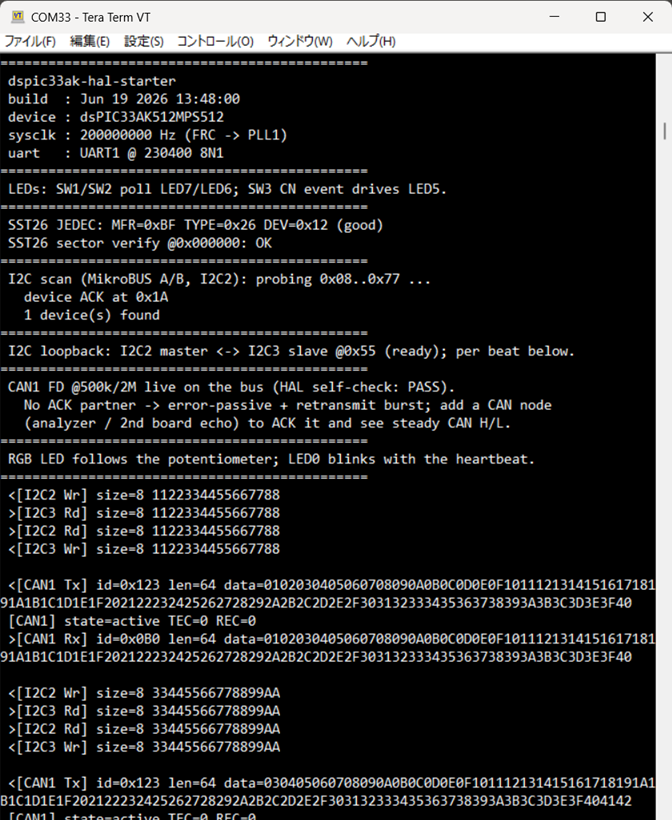
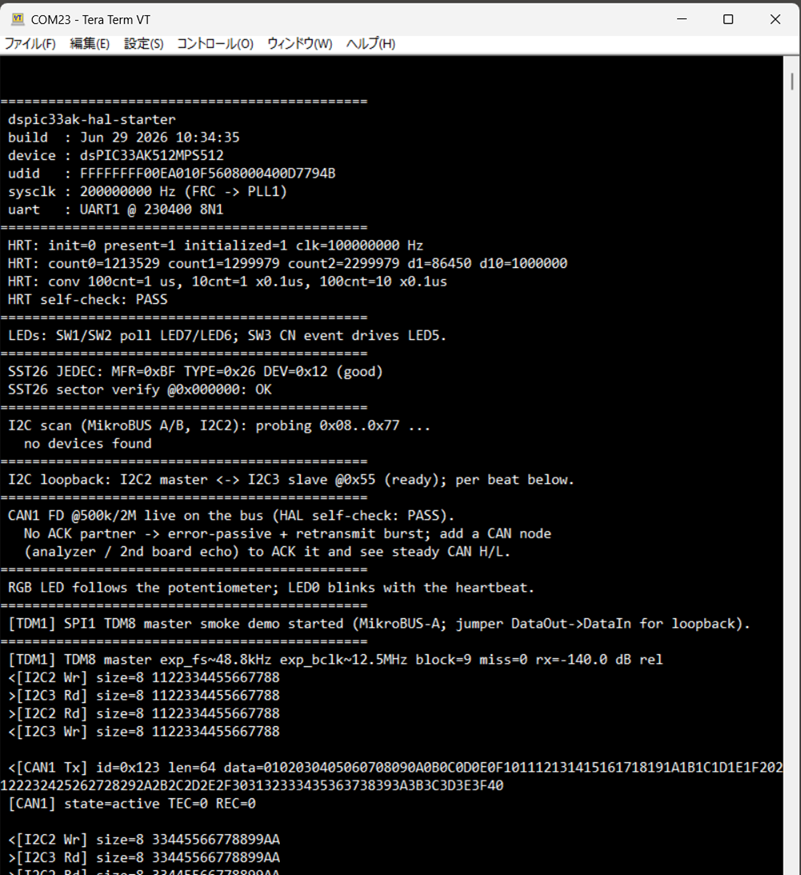
docs: update serial-console screenshot and README to match current firmware
New screenshot shows: UDID in boot banner, TDM8 smoke demo startup + status
line, I2C loopback, CAN1 state=active (ACK partner present).
README expected-output and caption updated to match.

Changed region(s): [[0.0, 0.0, 1.0, 1.0]]

diff --git a/README.md b/README.md
@@ -8,15 +8,14 @@ high-resolution counter self-check, UART
 `printf()`, SPI flash verification, I2C scan, and then an alternating
 I2C-loopback / CAN FD bus demo with RGB LED control and heartbeat output.
 
-<img src="docs/images/serial-console.png" alt="Serial console from dspic33ak-hal-starter: a two-board CAN FD session with the I2C loopback and CAN FD frames interleaving" width="900">
+<img src="docs/images/serial-console.png" alt="Serial console from dspic33ak-hal-starter: full startup sequence including HRT self-check, SST26, I2C scan, TDM smoke demo, I2C loopback, and CAN FD with ACK partner" width="900">
 
-Captured from a live **two-board** session using Tera Term. This board (A) runs
-the starter; a second board (B) flashed in echo config is wired to it over CAN
-(J21 <-> J21, CANH/CANL/GND + termination). So the CAN1 frames are ACKed and
-echoed back — the log shows the `<[CAN1 Tx] id=0x123` transmits and the
-`>[CAN1 Rx] id=0x0B0` echoes from board B, interleaved with the I2C loopback. On
-a single board with no CAN partner, the CAN1 controller instead goes
-`error-passive` and retransmits (a burst you can see on a scope/CAN analyzer).
+Captured from a live session using Tera Term. The output shows the complete
+startup sequence: boot banner (including UDID), HRT self-check, SST26 verify,
+I2C scan, I2C loopback, CAN1 FD with an ACK partner (`state=active`), and the
+TDM8 smoke demo running on MikroBUS-A — all running together. On a single board
+with no CAN partner, the CAN1 controller instead goes `error-passive` and
+retransmits (a burst you can see on a scope/CAN analyzer).
 
 ## Required hardware
 
@@ -224,6 +223,7 @@ connected; pass `-Serial <PKOB4_SERIAL>` when multiple boards are attached.
  dspic33ak-hal-starter
  build  : ...
  device : dsPIC33AK512MPS512
+ udid   : ...
  sysclk : 200000000 Hz (FRC -> PLL1)
  uart   : UART1 @ 230400 8N1
 ==============================================
@@ -238,8 +238,7 @@ connected; pass `-Serial <PKOB4_SERIAL>` when multiple boards are attached.
  SST26 sector verify @0x000000: OK
 ==============================================
  I2C scan (MikroBUS A/B, I2C2): probing 0x08..0x77 ...
-   device ACK at 0x1A
-   1 device(s) found
+   no devices found
 ==============================================
  I2C loopback: I2C2 master <-> I2C3 slave @0x55 (ready); per beat below.
 ==============================================
@@ -249,28 +248,30 @@ connected; pass `-Serial <PKOB4_SERIAL>` when multiple boards are attached.
 ==============================================
  RGB LED follows the potentiometer; LED0 blinks with the heartbeat.
 ==============================================
- <[CAN1 Tx] id=0x123 len=64 data=05060708...4344
- [CAN1] state=error-passive TEC=128 REC=0
+ [TDM1] SPI1 TDM8 master smoke demo started (MikroBUS-A; jumper DataOut->DataIn for loopback).
 
+ [TDM1] TDM8 master exp_fs~48.8kHz exp_bclk~12.5MHz block=... miss=0 rx=... dB rel
  <[I2C2 Wr] size=8 1122334455667788
  >[I2C3 Rd] size=8 1122334455667788
  >[I2C2 Rd] size=8 1122334455667788
  <[I2C3 Wr] size=8 1122334455667788
 
- <[CAN1 Tx] transmit queue full / timeout
- [CAN1] state=error-passive TEC=128 REC=0
+ <[CAN1 Tx] id=0x123 len=64 data=05060708...4344
+ [CAN1] state=active TEC=0 REC=0
+
+ <[I2C2 Wr] size=8 ...
  ...
 ```
 
 The two peripheral demos alternate once per second (CAN FD on one beat, the I2C
-master/slave round trip on the next), separated by a blank line.
+master/slave round trip on the next), separated by a blank line. The TDM smoke
+demo runs in the background and prints one status line every ~5 s.
 
-(The I2C addresses found depend on what is attached. In the screenshot above,
-the scan finds a device at `0x1A`; the I2C loopback slave itself runs at `0x55`.
-Turning the potentiometer sweeps the RGB LED green -> blue -> white -> red. With
-no CAN ACK partner the CAN1 controller is `error-passive` and retransmits — the
-TX queue fills (`queue full / timeout`); connect another CAN node to ACK it and
-it returns to `state=active`.)
+(I2C scan results depend on what is attached; the loopback slave itself runs at
+`0x55`. Turning the potentiometer sweeps the RGB LED. With no CAN ACK partner
+the CAN1 controller is `error-passive` and retransmits — the TX queue fills
+(`queue full / timeout`); connect another CAN node to ACK it and it returns to
+`state=active`.)
 
 ## Layout
 